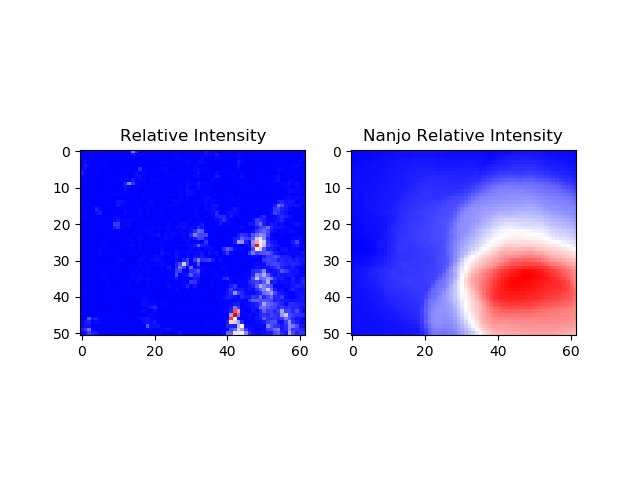
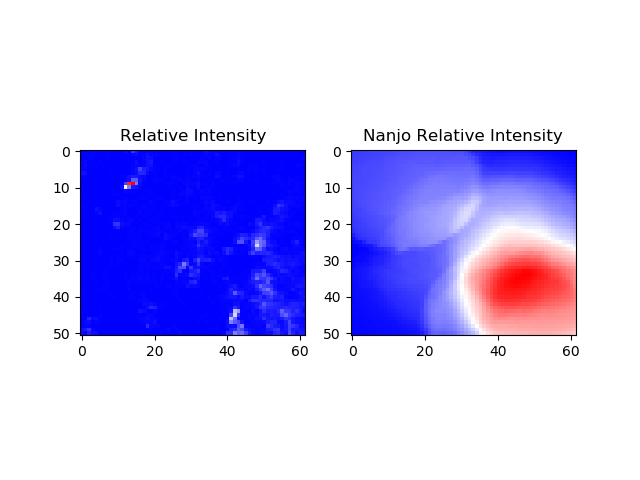
add splitData2Slice to split data with sliding windows

diff --git a/CSEP/runRIvsNanjoRI.py b/CSEP/runRIvsNanjoRI.py
@@ -14,15 +14,16 @@ visualPath = 'visualization'
 # NanjoRI法：グリッドごとの地震回数を半径Sの円に入るグリッド数で平滑化
 
 if __name__ == "__main__":
-	myCSEP = CSEP.Data()
 	cellSize = 0.05				# セルの大きさ（°）
 	mL = 2.5					# 最小マグニチュード
 	Ss = [10, 30,50,100]		# 平滑化パラメータ（グリッド中心からの距離[km]）
-	sTrainDay = '2000-01-01'	# 学習の開始日
-	eTrainDay = '2017-12-31'	# 学習の終了日
+	sTrainDay = '1980-01-01'	# 学習の開始日
+	eTrainDay = '2016-12-31'	# 学習の終了日
+	sTestDay = '2017-01-01'		# 評価の開始日
+	eTestDay = '2017-12-31'		# 評価の終了日
 
-	# 2000-01-01～2017-12-31の期間に限定
-	myCSEP.limitDataDate(sTrainDay, eTrainDay)
+	# CSEPのデータクラス
+	myCSEP = CSEP.Data(sTrainDay, eTrainDay, sTestDay, eTestDay)
 	
 	# CSEP関東領域グリッド（lon:138.475-141.525, lat:34.475-37.025）
 	lats = np.arange(34.475, 37.025, cellSize)
@@ -41,7 +42,7 @@ if __name__ == "__main__":
 		for i, lat in enumerate(lats):
 			print("latitude:{}...".format(lat))
 			for j, lon in enumerate(lons):
-				tmpData = myCSEP.getDataInGrid(lat, lon, lat+cellSize, lon+cellSize)
+				tmpData = myCSEP.getDataInGrid(lat, lon, lat+cellSize, lon+cellSize, dataType="train")
 
 				#-------------
 				# RI法：各セルのマグニチュードmL以上の地震をカウント
